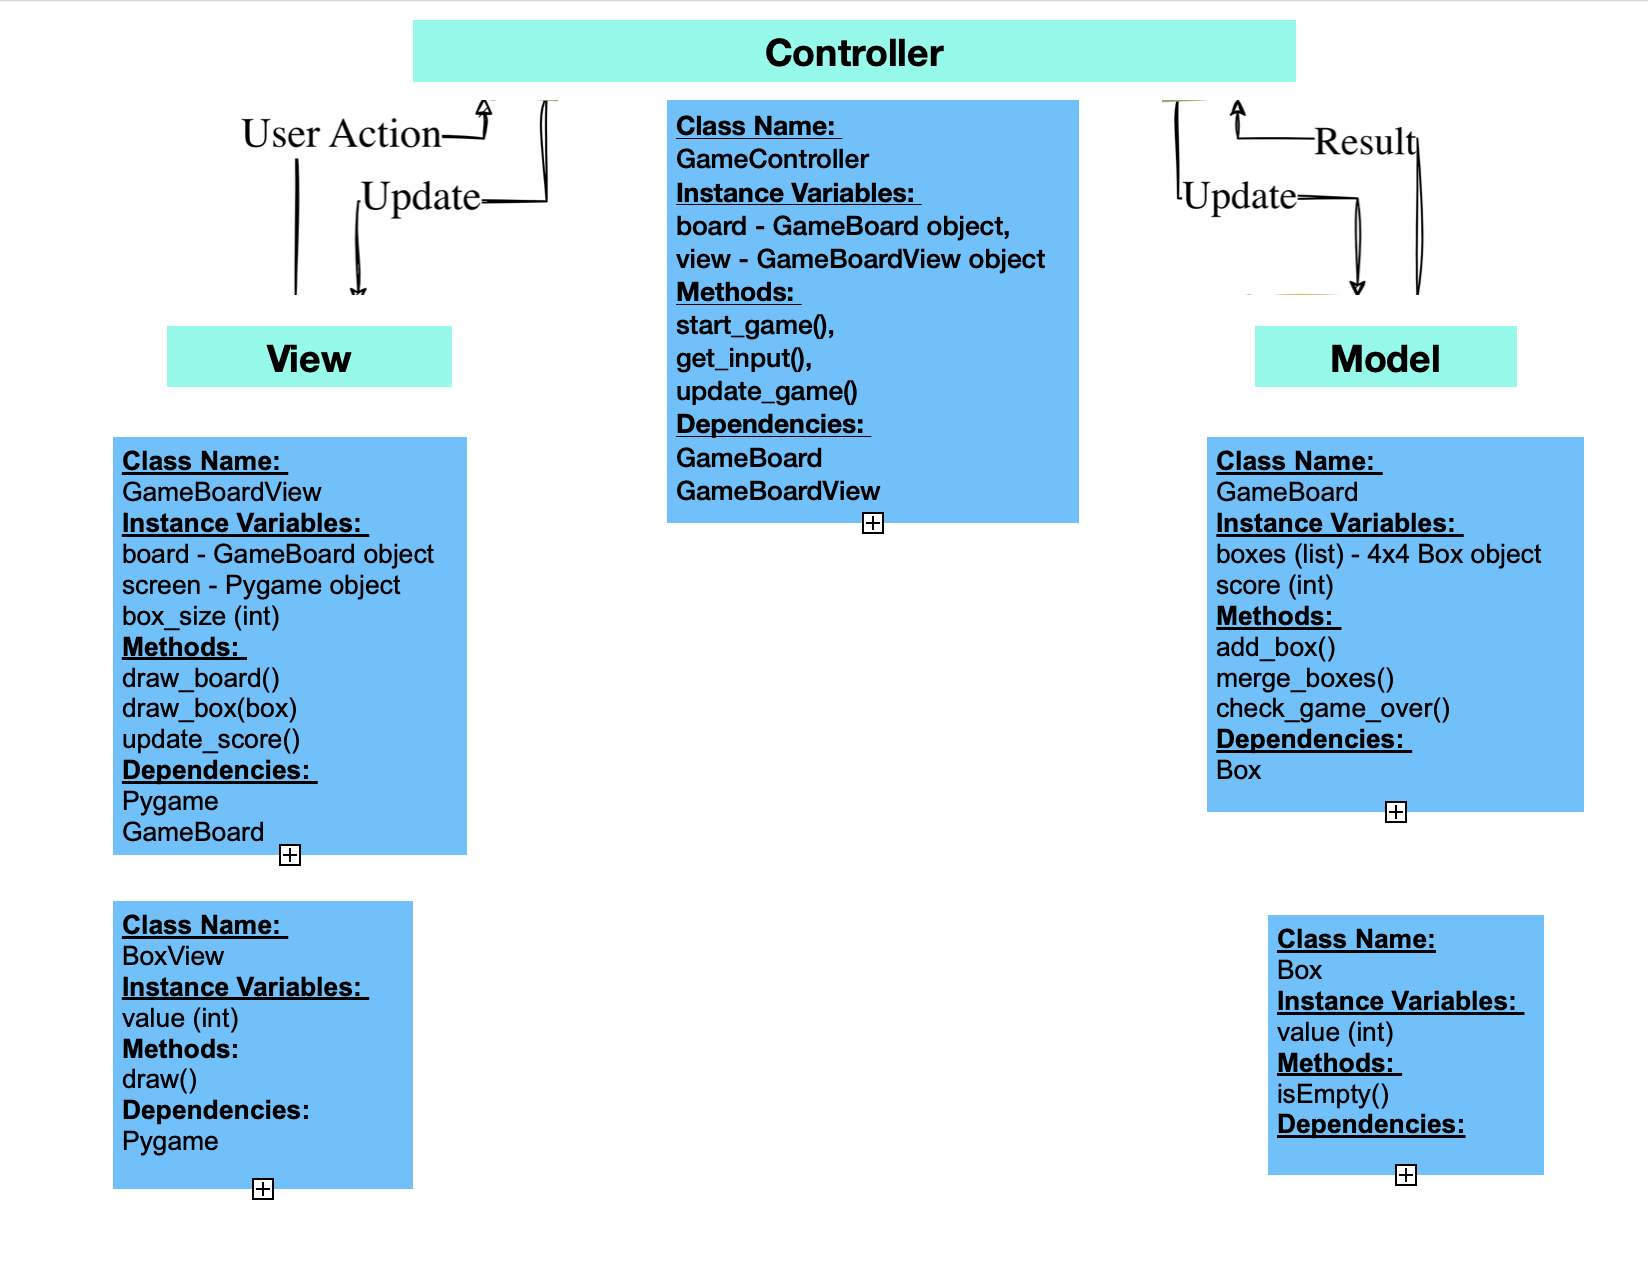
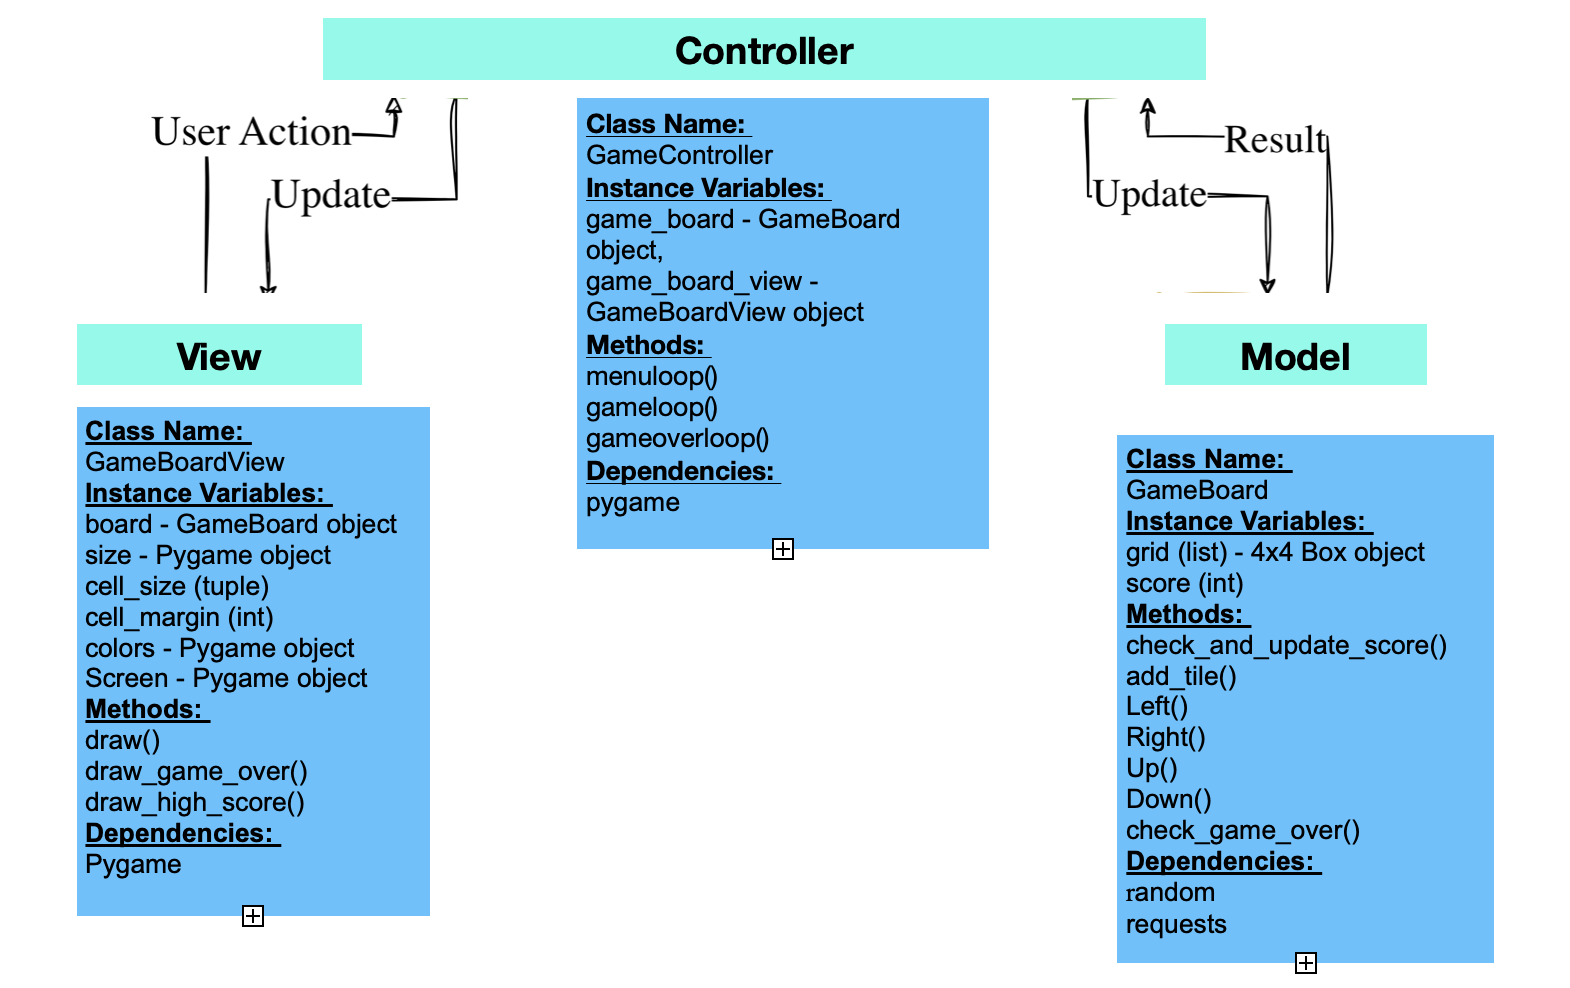
score feature and final gui updated

Changed region(s): [[0.0312, 0.0, 0.9675, 1.0]]

diff --git a/src/game_board.py b/src/game_board.py
@@ -1,12 +1,49 @@
 import random
+import requests
 
 class GameBoard:
     def __init__(self):
         self.grid = [[0] * 4 for _ in range(4)]
         self.add_tile()
         self.add_tile()
+        self.score = 0
+
+    def get_high_score_from_server(self):
+        """"
+        Gets the high score from a server using a get request.
+        Returns the high score as an integer, or 0 if the request fails.
+        """
+        response = requests.get("https://example.com/api/highscore")
+        if response.status_code == 200:
+            return int(response.json()['high_score'])
+        else:
+            return 0
+     
+    def update_high_score_to_server(self):
+        """
+        Updates the high score on a server using a post request.
+        Prints a message if the update fails.
+        """
+        response = requests.post("https://example.com/api/highscore", json={"high_score": self.high_score})
+        if response.status_code != 200:
+            print("Failed to update high score on server.")
+    
+    def check_and_update_high_score(self):
+        """
+        Checks the current score with the highest score obtained from the server.
+        """
+        high_score = self.get_high_score_from_server()
+        if high_score is None:
+            high_score = 0
+        if self.score > high_score:
+            self.high_score = self.score
+            self.update_high_score_to_server()
 
     def add_tile(self):
+        """
+        Adds a new tile to a random empty space on the board, with a 40% chance of 4 and a 60% chance of 2. 
+        If no empty spaces are available, no action is taken.
+        """
         empty = False
         for row in self.grid:
             if 0 in row:
@@ -14,7 +51,7 @@ class GameBoard:
                 break
 
         if not empty:
-            return  #if there is no empty spaces do nothing 
+            return  
 
         added = False
         while not added:
@@ -30,18 +67,30 @@ class GameBoard:
         print("Let's start!!!")
 
     def hor_reflect(self):
+        """
+        This function reflects the game board horizontally, reversing each row.
+        """
         r = 0
         for row in self.grid:
             self.grid[r] = row[::-1] 
             r += 1
 
     def ver_reflect(self):
+        """
+        This function reflects the game board vertically, reversing each row.
+        """
         r = 0
         for row in self.grid[::-1]:
             self.grid[r] = row
             r += 1
 
     def left(self):
+        """
+        This function shifts all tiles on the game board to left.
+        First block used to shift all cells to the left. 
+        Second for block used to merge cells of the same value. 
+        Third block is used to shift the cells left again to fill any gaps may have been created after the merge. 
+        """
         for k in range(3):  
             for i in range(4):  
                 for j in range(3): 
@@ -52,6 +101,7 @@ class GameBoard:
         for i in range(4):  
             for j in range(3):
                 if self.grid[i][j] == self.grid[i][j + 1]:
+                    self.score += self.grid[i][j] * 2
                     self.grid[i][j] *= 2  
                     self.grid[i][j + 1] = 0  
 
@@ -63,11 +113,20 @@ class GameBoard:
                         self.grid[i][j + 1] = 0
 
     def right(self):
+        """
+        This function shifts all cells on the game board right by using hor_reflect and left function.
+        """
         self.hor_reflect()  
         self.left()        
         self.hor_reflect() 
 
     def up(self):
+        """
+        This function shifts all cells on the game board up.
+        The first block shifts all cells upwards, moving cells into any empty spaces.
+        The second block merges any tiles of the same value that are neighbour on top of each other.
+        The third block shifts the cells upwards again to fill any gaps created after the merge.
+        """
         for k in range(3):
             for i in range(1, 4):
                 for j in range(4):
@@ -78,7 +137,8 @@ class GameBoard:
         for i in range(1, 4):
             for j in range(4):
                 if self.grid[i][j] == self.grid[i - 1][j]:
-                    self.grid[i - 1][j] *= 2
+                    self.score += self.grid[i][j] * 2 
+                    self.grid[i - 1][j] *= 2 
                     self.grid[i][j] = 0
 
         for k in range(3):
@@ -88,6 +148,9 @@ class GameBoard:
                         self.grid[i - 1][j], self.grid[i][j] = self.grid[i][j], self.grid[i - 1][j]
 
     def down(self):
+        """
+        This function shifts all cells on the game board down by using ver_reflect and up function.
+        """
         self.ver_reflect()
         self.up()
         self.ver_reflect()

diff --git a/src/game_board_view.py b/src/game_board_view.py
@@ -10,7 +10,6 @@ class GameBoardView:
             0: pygame.Color('lightgrey'),
             2: pygame.Color('yellow'),
             4: pygame.Color('gold'),
-            #colors for other numbers 
         }
         pygame.init()
         self.screen = pygame.display.set_mode(self.size)
@@ -41,4 +40,11 @@ class GameBoardView:
         text = font.render("Game Over!!!", True, ('red'))
         text_rect = text.get_rect(center=(self.size[0] / 2, self.size[1] / 2))
         self.screen.blit(text, text_rect)
+        pygame.display.flip()
+
+    def draw_high_score(self):
+        high_score_font = pygame.font.Font(None, 36)
+        high_score_text = high_score_font.render(f'High Score: {self.game_board.high_score}', True, pygame.Color('white'))
+        text_rect = high_score_text.get_rect(center=(self.size[0] / 2, self.size[1] - 50))  
+        self.screen.blit(high_score_text, text_rect)
         pygame.display.flip()

diff --git a/src/game_controller.py b/src/game_controller.py
@@ -53,7 +53,8 @@ class GameController:
                 elif event.key == pygame.K_DOWN:
                     self.game_board.down()
                     moved = True 
-                elif event.key == pygame.K_q:  #ends the game 
+                elif event.key == pygame.K_q: #ends the game
+                    self.gameoverloop() 
                     return  
                 
         if moved:
@@ -66,9 +67,8 @@ class GameController:
         pygame.time.wait(100)  
 
   def gameoverloop(self):
+    self.game_board.check_and_update_high_score()
     self.game_board_view.draw_game_over() 
+    self.game_board_view.draw_high_score()  
     pygame.time.wait(3000)
-
     
-
-      

diff --git a/README.md b/README.md
@@ -34,9 +34,7 @@ We will create 2048 game for final project. First, we will design an interface f
 ### Classes
 GameController
 GameBoardView
-BoxView 
 GameBoard 
-Box
 
 ## ATP
 
